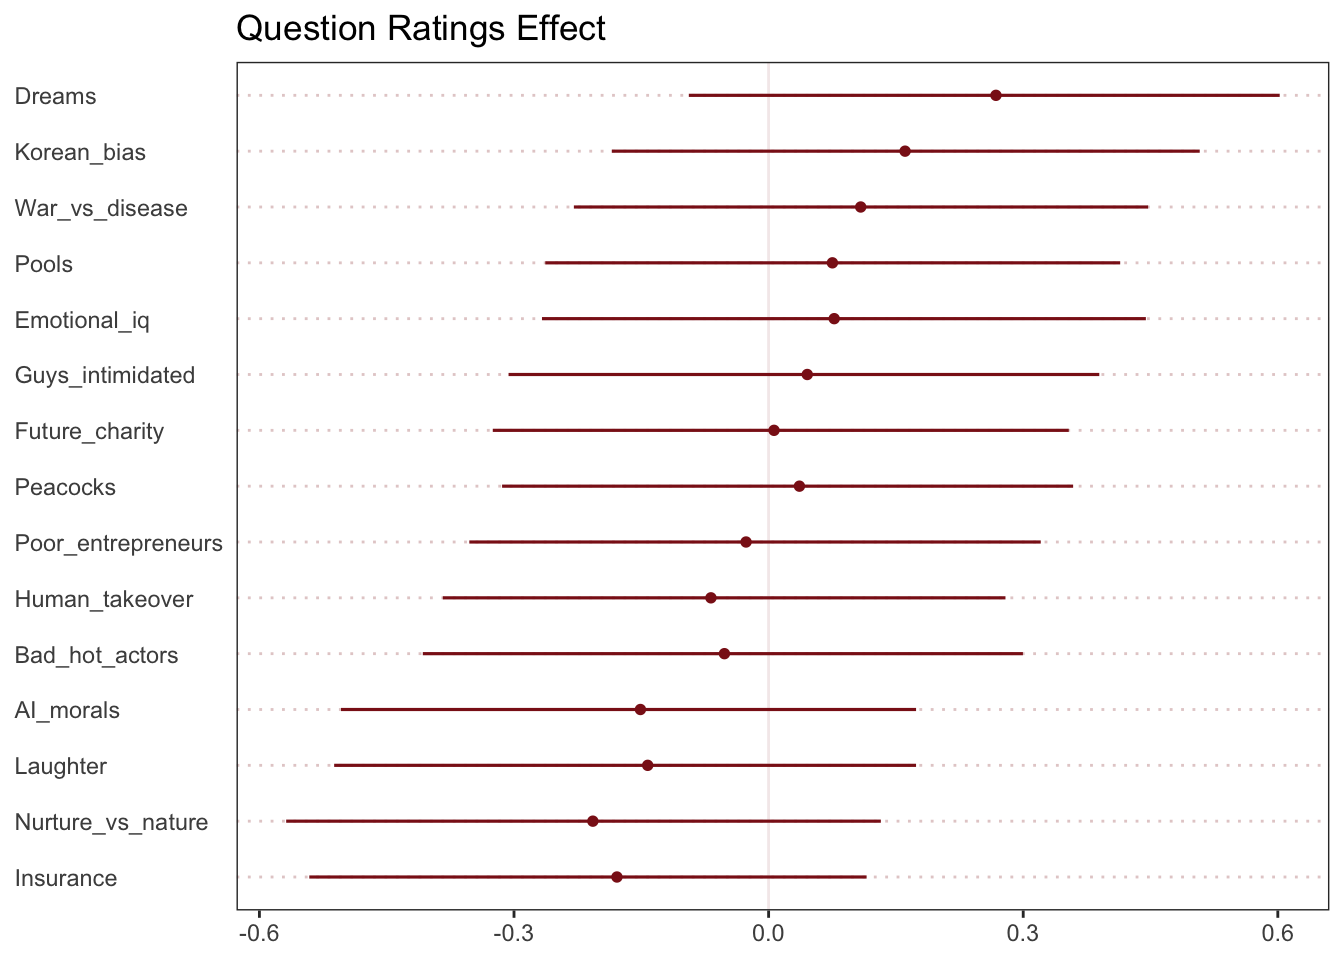
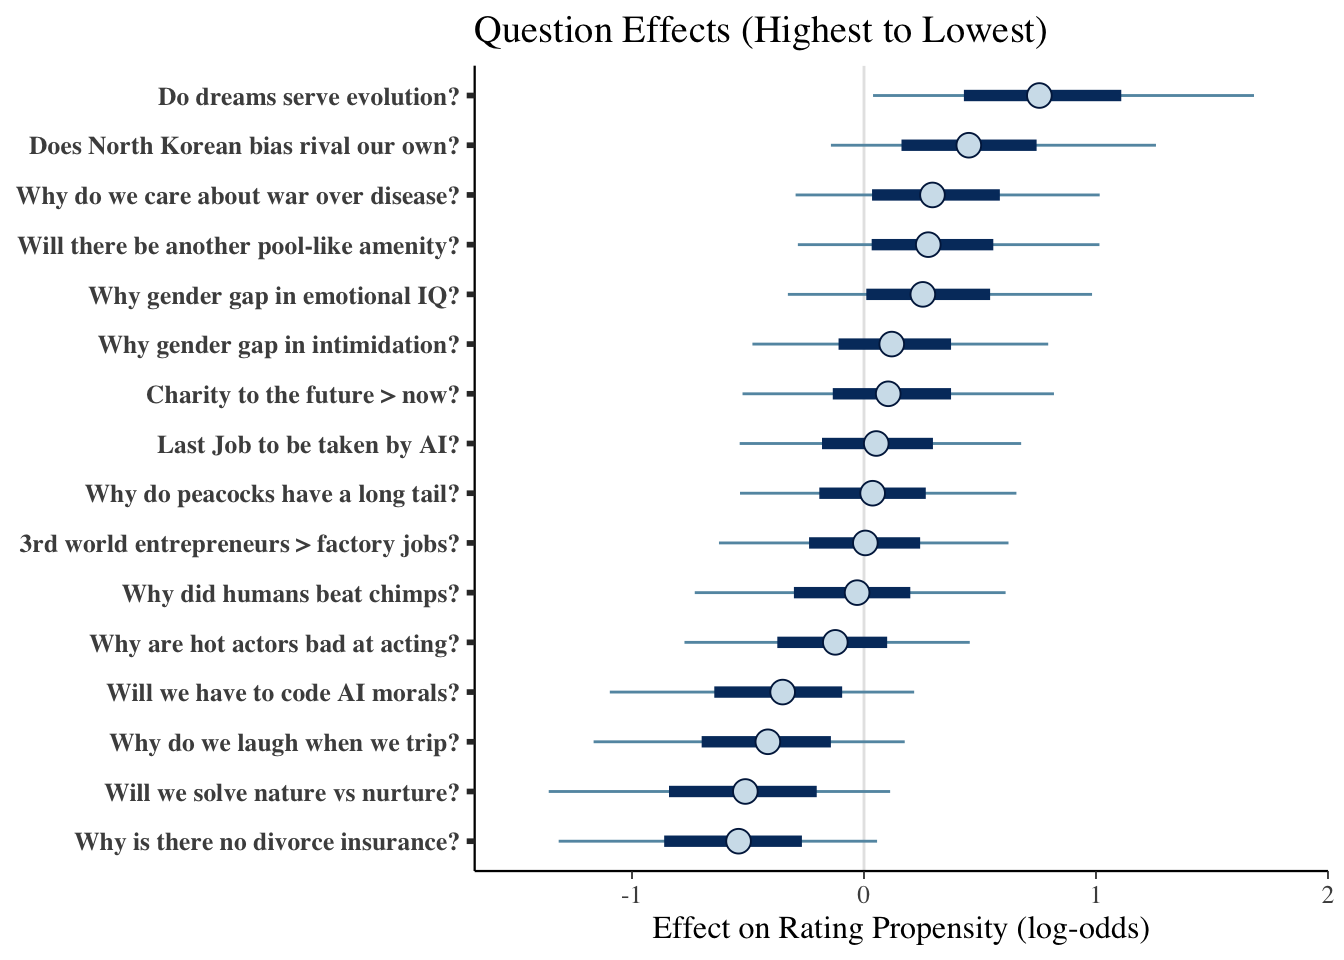
Built site for gh-pages

Changed region(s): [[0.0, 0.0, 1.0, 1.0], [0.1875, 0.9375, 0.2188, 1.0], [0.9688, 0.0625, 1.0, 0.0938]]

diff --git a/index.html b/index.html
@@ -167,7 +167,7 @@ pre > code.sourceCode > span > a:first-child::before { text-decoration: underlin
 <div class="tab-content">
 <div id="tabset-2-1" class="tab-pane active" role="tabpanel" aria-labelledby="tabset-2-1-tab">
 <div class="tabset-margin-container"></div><div class="panel-tabset">
-<ul class="nav nav-tabs" role="tablist"><li class="nav-item" role="presentation"><a class="nav-link active" id="tabset-1-1-tab" data-bs-toggle="tab" data-bs-target="#tabset-1-1" role="tab" aria-controls="tabset-1-1" aria-selected="true">bayes results</a></li><li class="nav-item" role="presentation"><a class="nav-link" id="tabset-1-2-tab" data-bs-toggle="tab" data-bs-target="#tabset-1-2" role="tab" aria-controls="tabset-1-2" aria-selected="false">code</a></li><li class="nav-item" role="presentation"><a class="nav-link" id="tabset-1-3-tab" data-bs-toggle="tab" data-bs-target="#tabset-1-3" role="tab" aria-controls="tabset-1-3" aria-selected="false">In-depth parameters</a></li></ul>
+<ul class="nav nav-tabs" role="tablist"><li class="nav-item" role="presentation"><a class="nav-link active" id="tabset-1-1-tab" data-bs-toggle="tab" data-bs-target="#tabset-1-1" role="tab" aria-controls="tabset-1-1" aria-selected="true">bayes results</a></li><li class="nav-item" role="presentation"><a class="nav-link" id="tabset-1-2-tab" data-bs-toggle="tab" data-bs-target="#tabset-1-2" role="tab" aria-controls="tabset-1-2" aria-selected="false">code</a></li></ul>
 <div class="tab-content">
 <div id="tabset-1-1" class="tab-pane active" role="tabpanel" aria-labelledby="tabset-1-1-tab">
 <div class="cell">
@@ -182,50 +182,21 @@ pre > code.sourceCode > span > a:first-child::before { text-decoration: underlin
 </div>
 <div id="tabset-1-2" class="tab-pane" role="tabpanel" aria-labelledby="tabset-1-2-tab">
 <div class="cell">
-<div class="sourceCode cell-code" id="cb1"><pre class="sourceCode r code-with-copy"><code class="sourceCode r"><span id="cb1-1"><a href="#cb1-1" aria-hidden="true" tabindex="-1"></a>bayes_lm <span class="ot">&lt;-</span> brms<span class="sc">::</span><span class="fu">brm</span>(</span>
-<span id="cb1-2"><a href="#cb1-2" aria-hidden="true" tabindex="-1"></a>  rating <span class="sc">~</span> q,  <span class="co"># Both fixed and random effects</span></span>
+<div class="sourceCode cell-code" id="cb1"><pre class="sourceCode r code-with-copy"><code class="sourceCode r"><span id="cb1-1"><a href="#cb1-1" aria-hidden="true" tabindex="-1"></a>bayes_ordinal_hierarchical <span class="ot">&lt;-</span> brms<span class="sc">::</span><span class="fu">brm</span>(</span>
+<span id="cb1-2"><a href="#cb1-2" aria-hidden="true" tabindex="-1"></a>  rating <span class="sc">~</span> <span class="dv">1</span> <span class="sc">+</span> (<span class="dv">1</span> <span class="sc">|</span> q),  </span>
 <span id="cb1-3"><a href="#cb1-3" aria-hidden="true" tabindex="-1"></a>  <span class="at">data =</span> survey_tidy,</span>
-<span id="cb1-4"><a href="#cb1-4" aria-hidden="true" tabindex="-1"></a>  <span class="at">prior =</span> <span class="fu">c</span>(</span>
-<span id="cb1-5"><a href="#cb1-5" aria-hidden="true" tabindex="-1"></a>    <span class="fu">prior</span>(<span class="fu">normal</span>(<span class="fl">3.5</span>, .<span class="dv">5</span>), <span class="at">class =</span> Intercept),</span>
-<span id="cb1-6"><a href="#cb1-6" aria-hidden="true" tabindex="-1"></a>    <span class="fu">prior</span>(<span class="fu">normal</span>(<span class="dv">0</span>, <span class="fl">0.2</span>), <span class="at">class =</span> b),  <span class="co"># Small random effect</span></span>
-<span id="cb1-7"><a href="#cb1-7" aria-hidden="true" tabindex="-1"></a>    <span class="fu">prior</span>(<span class="fu">exponential</span>(<span class="dv">1</span>), <span class="at">class =</span> sigma)</span>
-<span id="cb1-8"><a href="#cb1-8" aria-hidden="true" tabindex="-1"></a>  ),</span>
-<span id="cb1-9"><a href="#cb1-9" aria-hidden="true" tabindex="-1"></a>  <span class="at">chains =</span> <span class="dv">4</span>, <span class="at">iter =</span> <span class="dv">2000</span>, <span class="at">cores =</span> <span class="dv">4</span>,</span>
-<span id="cb1-10"><a href="#cb1-10" aria-hidden="true" tabindex="-1"></a>  <span class="at">backend =</span> <span class="st">"cmdstanr"</span>, <span class="at">silent =</span> <span class="dv">2</span>,</span>
-<span id="cb1-11"><a href="#cb1-11" aria-hidden="true" tabindex="-1"></a>  <span class="at">file =</span> <span class="st">"lm.1"</span></span>
-<span id="cb1-12"><a href="#cb1-12" aria-hidden="true" tabindex="-1"></a>)</span></code><button title="Copy to Clipboard" class="code-copy-button"><i class="bi"></i></button></pre></div>
-</div>
-</div>
-<div id="tabset-1-3" class="tab-pane" role="tabpanel" aria-labelledby="tabset-1-3-tab">
-<div class="cell">
-<div class="cell-output-display">
-<div>
-<figure class="figure">
-<p><img src="index_files/figure-html/unnamed-chunk-5-1.png" class="img-fluid figure-img" width="672"></p>
-</figure>
-</div>
-</div>
-<div class="cell-output-display">
-<div>
-<figure class="figure">
-<p><img src="index_files/figure-html/unnamed-chunk-5-2.png" class="img-fluid figure-img" width="672"></p>
-</figure>
-</div>
-</div>
-<div class="cell-output-display">
-<div>
-<figure class="figure">
-<p><img src="index_files/figure-html/unnamed-chunk-5-3.png" class="img-fluid figure-img" width="672"></p>
-</figure>
-</div>
-</div>
-<div class="cell-output-display">
-<div>
-<figure class="figure">
-<p><img src="index_files/figure-html/unnamed-chunk-5-4.png" class="img-fluid figure-img" width="672"></p>
-</figure>
-</div>
-</div>
+<span id="cb1-4"><a href="#cb1-4" aria-hidden="true" tabindex="-1"></a>  <span class="at">family =</span> <span class="fu">cumulative</span>(<span class="at">link =</span> <span class="st">"logit"</span>),</span>
+<span id="cb1-5"><a href="#cb1-5" aria-hidden="true" tabindex="-1"></a>  <span class="at">prior =</span> <span class="fu">c</span>(</span>
+<span id="cb1-6"><a href="#cb1-6" aria-hidden="true" tabindex="-1"></a>    <span class="co"># Global intercepts (cutpoints) </span></span>
+<span id="cb1-7"><a href="#cb1-7" aria-hidden="true" tabindex="-1"></a>    <span class="fu">prior</span>(<span class="fu">normal</span>(<span class="dv">0</span>, <span class="fl">1.5</span>), <span class="at">class =</span> Intercept),</span>
+<span id="cb1-8"><a href="#cb1-8" aria-hidden="true" tabindex="-1"></a>    </span>
+<span id="cb1-9"><a href="#cb1-9" aria-hidden="true" tabindex="-1"></a>    <span class="co"># Hierarchical variance - how much factor levels vary from grand mean</span></span>
+<span id="cb1-10"><a href="#cb1-10" aria-hidden="true" tabindex="-1"></a>    <span class="fu">prior</span>(<span class="fu">exponential</span>(<span class="dv">1</span>), <span class="at">class =</span> sd, <span class="at">group =</span> q)</span>
+<span id="cb1-11"><a href="#cb1-11" aria-hidden="true" tabindex="-1"></a>  ),</span>
+<span id="cb1-12"><a href="#cb1-12" aria-hidden="true" tabindex="-1"></a>  <span class="at">chains =</span> <span class="dv">4</span>, <span class="at">iter =</span> <span class="dv">2000</span>, <span class="at">cores =</span> <span class="dv">4</span>,</span>
+<span id="cb1-13"><a href="#cb1-13" aria-hidden="true" tabindex="-1"></a>  <span class="at">backend =</span> <span class="st">"cmdstanr"</span>, <span class="at">silent =</span> <span class="dv">2</span>,</span>
+<span id="cb1-14"><a href="#cb1-14" aria-hidden="true" tabindex="-1"></a>  <span class="at">file =</span> <span class="st">"fits/ordinal_hierarchical"</span></span>
+<span id="cb1-15"><a href="#cb1-15" aria-hidden="true" tabindex="-1"></a>)</span></code><button title="Copy to Clipboard" class="code-copy-button"><i class="bi"></i></button></pre></div>
 </div>
 </div>
 </div>
